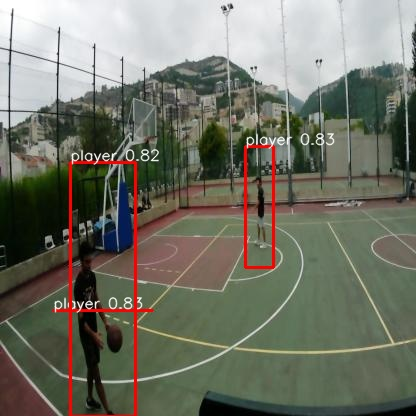
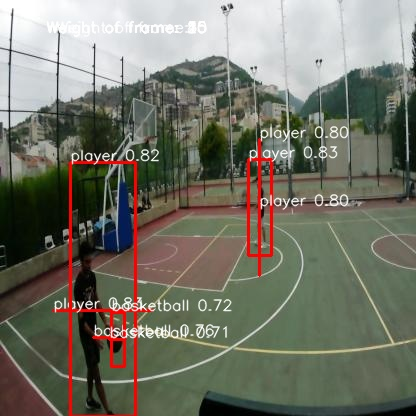
weights test

diff --git a/realtimetracking.py b/realtimetracking.py
@@ -17,7 +17,8 @@ parser.add_argument("--display", "-d", action='store_true', help="Display detect
 parser.add_argument("--stream", "-s", action='store_true', help="Process video stream in real-time")
 parser.add_argument("--conf", "-ct", type=float, default=0.5, help="Detection confidence threshold")
 parser.add_argument("--iou", "-it", type=float, default=0.1, help="Detections IOU threshold")
-
+parser.add_argument("--wb", "-b", type=int, default=10, help = "Weight of basketball")
+parser.add_argument("--wp", "-p", type=int, default=7, help = "Weight of player")
 args = parser.parse_args()
 
 model = YOLOv5s(args.model, args.labels, args.conf, args.iou)
@@ -37,15 +38,30 @@ if(args.image) is not None:
 
     detections = model.postprocess(output)
 
+    wt = 0
+
+    height, width, _ = img.shape
+
     for detection in detections:
         x1, y1, x2, y2, conf, class_id = detection
 
         c = int(class_id)
 
+        if c == 0:
+            wt += args.wb
+        elif c == 1:
+            wt += args.wp
+
         label = f'{classes[c]} {conf:.2f}'
+        weight = f"Weight of frame: {wt}"
+
+        (text_width, text_height), baseline = cv2.getTextSize(weight, 0, 1, 2)
+        text_x = int((width - text_width) / 2)
+        text_y = text_height + 10
 
         cv2.rectangle(img, (int(x1), int(y1)), (int(x2), int(y2)), [0, 0, 255], 2)
         cv2.putText(img, label, (int(x1), int(y1-2)), 0, 0.5, (255, 255, 255), 1, lineType=cv2.LINE_AA)
+        cv2.putText(img, weight, (text_x, text_y), 0, 0.5, (255, 255, 255), 1, lineType=cv2.LINE_AA)
 
     s = ""
 
